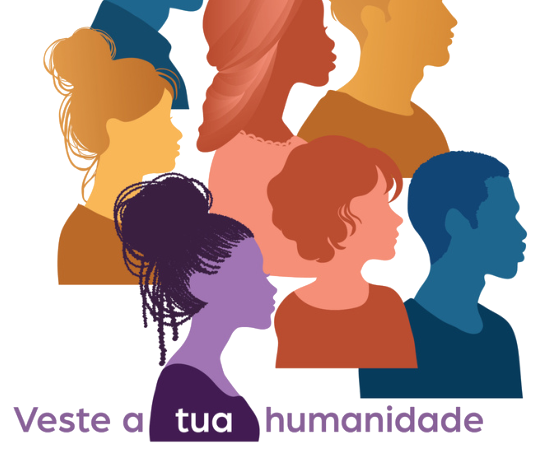
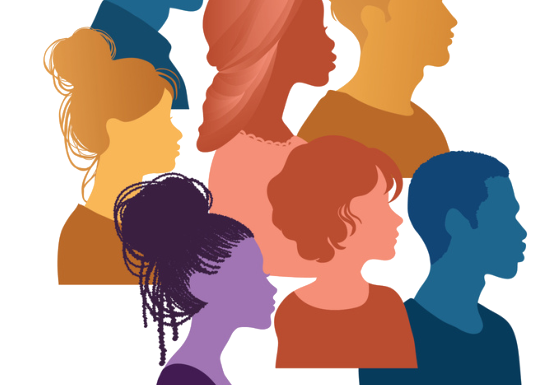
Fix hero crop, mission illustration, and swap movement visual
- Recrop hero-crowd.jpg tighter and use object-top so the logo is
  never cut off by the section's fixed height.
- Remove the baked-in tagline from the mission illustration and match
  the image container's aspect ratio so no figures get clipped.
- Replace the navy block in the "movement" section with the deck's
  full crowd mosaic illustration, per feedback.
- Add a back button to the product detail page.
- Add the missing kids hoodie product shown in the deck.

diff --git a/src/app/produtos/[slug]/page.tsx b/src/app/produtos/[slug]/page.tsx
@@ -3,6 +3,7 @@ import Image from "next/image"
 import { supabase } from "@/lib/supabase"
 import { formatPriceCents, type ProductWithDetails } from "@/lib/types"
 import AddToCartForm from "@/components/AddToCartForm"
+import BackButton from "@/components/BackButton"
 
 async function getProduct(slug: string): Promise<ProductWithDetails | null> {
   const { data, error } = await supabase
@@ -35,43 +36,46 @@ export default async function ProductPage({
   )
 
   return (
-    <div className="mx-auto grid max-w-6xl grid-cols-1 gap-12 px-4 py-12 md:grid-cols-2">
-      <div
-        className={`grid gap-3 ${images.length > 1 ? "grid-cols-2" : "grid-cols-1"}`}
-      >
-        {images.map((img) => (
-          <div key={img.id} className="aspect-[4/5] overflow-hidden rounded-lg bg-peach/30">
-            <Image
-              src={img.url}
-              alt={img.alt ?? product.name}
-              width={800}
-              height={1000}
-              className="h-full w-full object-cover"
-              priority
+    <div className="mx-auto max-w-6xl px-4 py-12">
+      <BackButton />
+      <div className="grid grid-cols-1 gap-12 md:grid-cols-2">
+        <div
+          className={`grid gap-3 ${images.length > 1 ? "grid-cols-2" : "grid-cols-1"}`}
+        >
+          {images.map((img) => (
+            <div key={img.id} className="aspect-[4/5] overflow-hidden rounded-lg bg-peach/30">
+              <Image
+                src={img.url}
+                alt={img.alt ?? product.name}
+                width={800}
+                height={1000}
+                className="h-full w-full object-cover"
+                priority
+              />
+            </div>
+          ))}
+        </div>
+
+        <div>
+          {product.categories && (
+            <p className="mb-2 text-sm text-navy/50">{product.categories.name}</p>
+          )}
+          <h1 className="text-2xl font-semibold text-navy">{product.name}</h1>
+          <p className="mt-2 text-lg text-navy">{formatPriceCents(product.price_cents)}</p>
+          {product.description && (
+            <p className="mt-6 text-navy/70">{product.description}</p>
+          )}
+
+          <div className="mt-8">
+            <AddToCartForm
+              productId={product.id}
+              productName={product.name}
+              productSlug={product.slug}
+              priceCents={product.price_cents}
+              imageUrl={image?.url ?? null}
+              variants={variants}
             />
           </div>
-        ))}
-      </div>
-
-      <div>
-        {product.categories && (
-          <p className="mb-2 text-sm text-navy/50">{product.categories.name}</p>
-        )}
-        <h1 className="text-2xl font-semibold text-navy">{product.name}</h1>
-        <p className="mt-2 text-lg text-navy">{formatPriceCents(product.price_cents)}</p>
-        {product.description && (
-          <p className="mt-6 text-navy/70">{product.description}</p>
-        )}
-
-        <div className="mt-8">
-          <AddToCartForm
-            productId={product.id}
-            productName={product.name}
-            productSlug={product.slug}
-            priceCents={product.price_cents}
-            imageUrl={image?.url ?? null}
-            variants={variants}
-          />
         </div>
       </div>
     </div>

diff --git a/src/app/page.tsx b/src/app/page.tsx
@@ -2,7 +2,6 @@ import Link from "next/link"
 import Image from "next/image"
 import { supabase } from "@/lib/supabase"
 import ProductCard from "@/components/ProductCard"
-import Logo from "@/components/Logo"
 import type { ProductSummary } from "@/lib/types"
 
 async function getFeaturedProducts(): Promise<ProductSummary[]> {
@@ -29,7 +28,7 @@ export default async function Home() {
           alt="Todos Todos Todos — comunidade ao pôr do sol"
           fill
           priority
-          className="object-cover"
+          className="object-cover object-top"
         />
         <div className="absolute inset-0 bg-gradient-to-t from-navy-dark via-navy-dark/40 to-transparent" />
         <div className="relative mx-auto flex w-full max-w-6xl flex-col items-start gap-4 px-4 pb-14 pt-32 text-cream">
@@ -73,10 +72,10 @@ export default async function Home() {
               </span>
             </div>
           </div>
-          <div className="relative mx-auto aspect-[6/5] w-full max-w-md">
+          <div className="relative mx-auto aspect-[543/385] w-full max-w-lg">
             <Image
               src="/brand/crowd-illustration.png"
-              alt="Veste a tua humanidade — ilustração"
+              alt="Ilustração de um grupo de pessoas diversas"
               fill
               className="object-contain"
             />
@@ -100,12 +99,21 @@ export default async function Home() {
       </section>
 
       {/* Movement statement */}
-      <section className="flex flex-col items-center gap-6 bg-navy px-4 py-20 text-center">
-        <Logo variant="white" height={130} />
-        <p className="max-w-md text-cream/80">
-          TODOS não é só uma palavra. TODOS é uma escolha. TODOS é um futuro
-          possível.
-        </p>
+      <section className="bg-mustard/25 px-4 py-16">
+        <div className="mx-auto flex max-w-3xl flex-col items-center gap-6 text-center">
+          <div className="relative aspect-[780/1175] w-full max-w-xs overflow-hidden rounded-2xl shadow-sm">
+            <Image
+              src="/brand/crowd-mosaic.jpg"
+              alt="Todos — ilustração de uma multidão diversa"
+              fill
+              className="object-cover"
+            />
+          </div>
+          <p className="max-w-md text-navy/80">
+            TODOS não é só uma palavra. TODOS é uma escolha. TODOS é um futuro
+            possível.
+          </p>
+        </div>
       </section>
 
       {/* Closing quote */}

diff --git a/src/components/BackButton.tsx b/src/components/BackButton.tsx
@@ -1,0 +1,29 @@
+"use client"
+
+import { useRouter } from "next/navigation"
+
+export default function BackButton() {
+  const router = useRouter()
+
+  return (
+    <button
+      type="button"
+      onClick={() => router.back()}
+      className="mb-6 flex items-center gap-1.5 text-sm text-navy/60 hover:text-navy"
+    >
+      <svg
+        xmlns="http://www.w3.org/2000/svg"
+        viewBox="0 0 20 20"
+        fill="currentColor"
+        className="h-4 w-4"
+      >
+        <path
+          fillRule="evenodd"
+          d="M17 10a.75.75 0 0 1-.75.75H5.56l4.22 4.22a.75.75 0 1 1-1.06 1.06l-5.5-5.5a.75.75 0 0 1 0-1.06l5.5-5.5a.75.75 0 1 1 1.06 1.06L5.56 9.25H16.25A.75.75 0 0 1 17 10Z"
+          clipRule="evenodd"
+        />
+      </svg>
+      Voltar
+    </button>
+  )
+}
